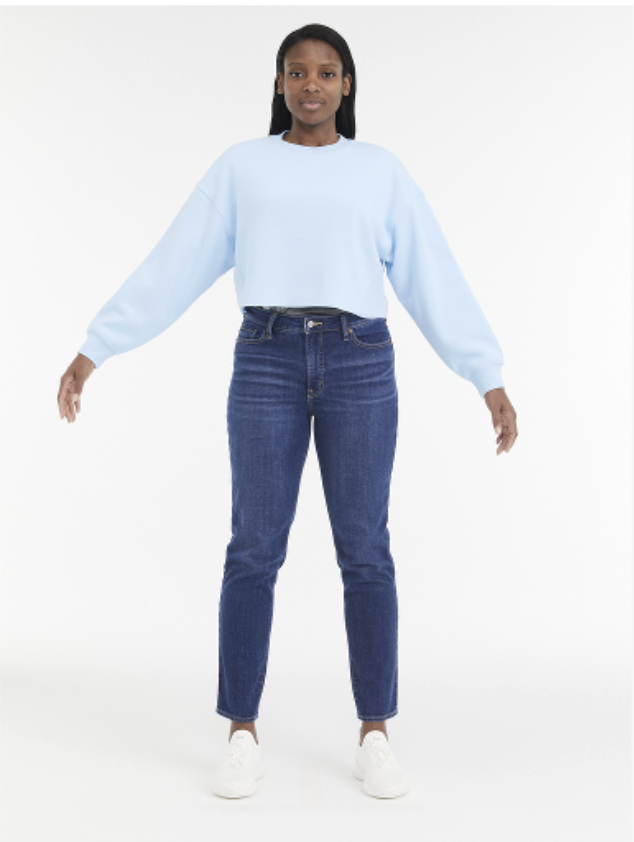
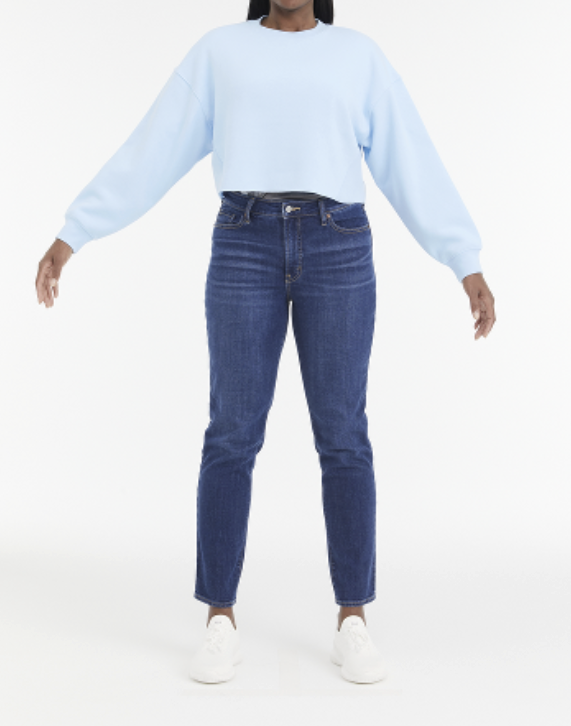
Add 10x dataset samples, crop heads in VTO demo

Changed region(s): [[0.0595, 0.0, 0.8932, 0.8788], [0.5954, 0.9394, 0.655, 0.9697], [0.3275, 0.9394, 0.387, 0.9697]]

diff --git a/static/js/index.js b/static/js/index.js
@@ -112,8 +112,16 @@ function selectGarmentSlider(id, element) {
 
 // ------------ Browse Dataset ------------ 
 const sampleData = {
-  1: { height: "173", bust: "85", waist: "62", hips: "90", length: "70", width: "50", sleeve: "60" },
-  2: { height: "165", bust: "80", waist: "60", hips: "85", length: "68", width: "48", sleeve: "58" },
+  1: { bust: "114", height: "171", hips: "121", waist: "102", width: "119", length: "50",  sleeve: "18" },
+  2: { bust: "90", height: "165", hips: "88", waist: "75", width: "101", length: "49",  sleeve: "18" },
+  3: { bust: "101", height: "178", hips: "104", waist: "86", width: "120", length: "75",  sleeve: "30" },
+  4: { bust: "117", height: "176", hips: "117", waist: "105", width: "131", length: "53",  sleeve: "0" },
+  5: { bust: "95", height: "172", hips: "100", waist: "77", width: "142", length: "53",  sleeve: "54" },
+  6: { bust: "123", height: "195", hips: "126", waist: "114", width: "114", length: "50",  sleeve: "16" },
+  7: { bust: "84", height: "163", hips: "90", waist: "63", width: "92", length: "45",  sleeve: "21" },
+  8: { bust: "141", height: "172", hips: "134", waist: "141", width: "134", length: "50",  sleeve: "48" },
+  9: { bust: "86", height: "162", hips: "89", waist: "68", width: "142", length: "58",  sleeve: "23" },
+  10: { bust: "94", height: "161", hips: "93", waist: "78", width: "104", length: "55",  sleeve: "20" },
 };
 document.addEventListener('DOMContentLoaded', () => {
   const gridContainer = document.getElementById('dataset-grid');
